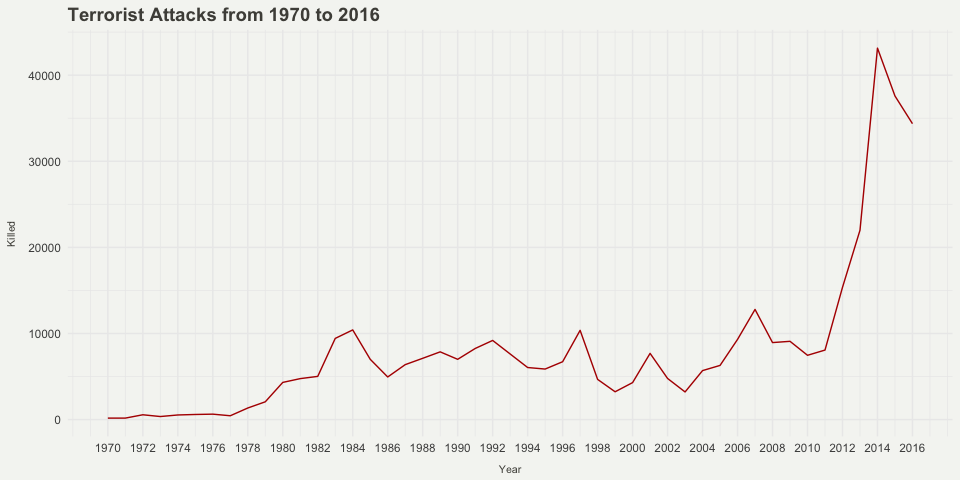
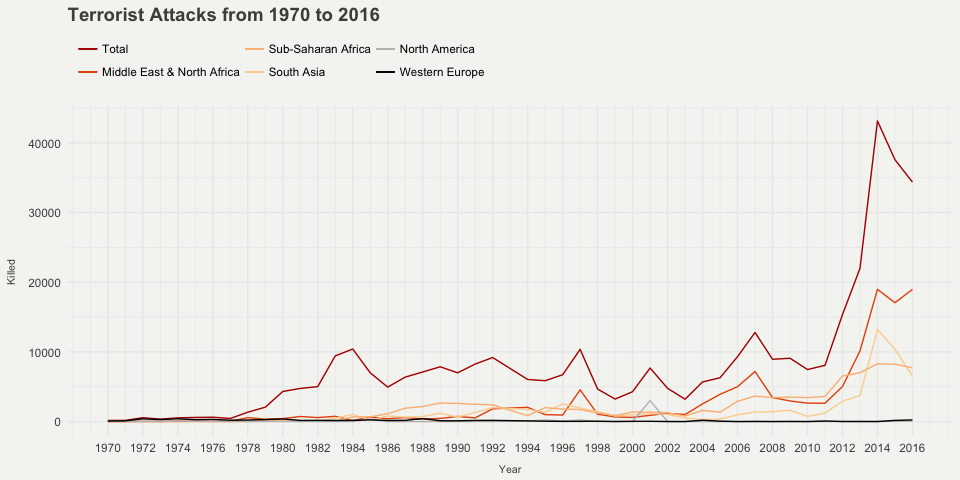
24/4

diff --git a/README.md b/README.md
@@ -1,6 +1,6 @@
 Global Terrorism
 ================
-23 April, 2018
+24 April, 2018
 
 -   [General Goals](#general-goals)
     -   [Reading Data In](#reading-data-in)
@@ -50,7 +50,83 @@ skilled <- gtclean %>%
   summarise(killed = sum(killed))
 
 myPalette <- colorRampPalette(rev(brewer.pal(6, "OrRd")))
+
+gtscatter1 <- gt %>%
+  filter(crit1 == 1, crit2 == 1, nkill > 0) %>%
+  group_by(region_txt, iyear, nkill) %>%
+  summarise(
+    count = n(),
+  ) %>% 
+  mutate(
+    killed = nkill * count
+  ) %>% 
+  group_by(region_txt, iyear) %>%
+  summarise(killed = sum(killed)) %>% 
+  mutate(
+    id = paste(region_txt, iyear, sep="")
+  )
+
+gtscatter2 <- gt %>%
+  filter(crit1 == 1, crit2 == 1, nkill > 0) %>%
+  group_by(region_txt, iyear) %>%
+  summarise(
+    count = n(),
+  ) %>%
+  mutate(
+    id = paste(region_txt, iyear, sep="")
+  )
+
+scattergrouped <- inner_join(gtscatter1, gtscatter2, by="id") %>% 
+  select("region_txt.x", "iyear.x", "killed", "count") %>% 
+  mutate(ratio = killed / count) %>% 
+  filter(region_txt.x == "Middle East & North Africa")
+
+scattergrouped2 <- inner_join(gtscatter1, gtscatter2, by="id") %>% 
+  select("region_txt.x", "iyear.x", "killed", "count") %>% 
+  mutate(ratio = killed / count) %>% 
+  filter(region_txt.x == "Sub-Saharan Africa")
+
+scattergrouped3 <- inner_join(gtscatter1, gtscatter2, by="id") %>% 
+  select("region_txt.x", "iyear.x", "killed", "count") %>% 
+  mutate(ratio = killed / count) %>% 
+  filter(region_txt.x == "South Asia")
+
+scattergrouped4 <- inner_join(gtscatter1, gtscatter2, by="id") %>% 
+  select("region_txt.x", "iyear.x", "killed", "count") %>% 
+  mutate(ratio = killed / count) %>% 
+  filter(region_txt.x == "North America")
+
+scattergrouped5 <- inner_join(gtscatter1, gtscatter2, by="id") %>% 
+  select("region_txt.x", "iyear.x", "killed", "count") %>% 
+  mutate(ratio = killed / count) %>% 
+  filter(region_txt.x == "Western Europe")
+
+ggplot() +
+  geom_line(data = skilled, aes(x=iyear, y=killed, group = 1, color = "#B30000")) +
+  geom_line(data = scattergrouped, aes(x = iyear.x, y = killed, group =1, color = "#e6550d")) +
+  geom_line(data = scattergrouped2, aes(x = iyear.x, y = killed, group =1, color = "#FDD49E")) + 
+  geom_line(data = scattergrouped3, aes(x = iyear.x, y = killed, group =1, color = "#FDBB84")) +
+  geom_line(data = scattergrouped4, aes(x = iyear.x, y = killed, group =1, color = "black")) + 
+  geom_line(data = scattergrouped5, aes(x = iyear.x, y = killed, group =1, color = "grey")) +
+  scale_x_continuous(breaks = seq(1970, 2016, 2)) +
+  labs(y="Killed", title="Terrorist Attacks from 1970 to 2016", x="Year") +
+  theme_minimal() + 
+  theme(plot.title = element_text(size = 14, face = "bold", color = "#4e4d47"),
+        axis.title = element_text(size = 8, color = "#4e4d47"),
+        axis.title.y = element_text(margin=margin(t = 0, r = 10, b = 0, l = 0)),
+        axis.title.x = element_text(margin=margin(t = 10, r = 0, b = 0, l = 0)),
+        plot.background = element_rect(fill = "#f5f5f2", color = NA),
+        legend.position = "top",
+        legend.direction = "horizontal",
+        legend.justification = c(-0.01,0)) + 
+  scale_colour_manual(name = '', 
+                      values =c('#B30000'='#B30000','#e6550d'='#e6550d', "#FDD49E" = "#FDD49E",
+                                "#FDBB84" = "#FDBB84", "grey" = "black", "black" = "grey"),
+                      labels = c('Total','Middle East & North Africa', "Sub-Saharan Africa",
+                                 "South Asia","North America","Western Europe"))
 ```
+
+![](readme-figs/gt-1.png)
 
 ![](readme-figs/r%20gt2-1.png)
 
